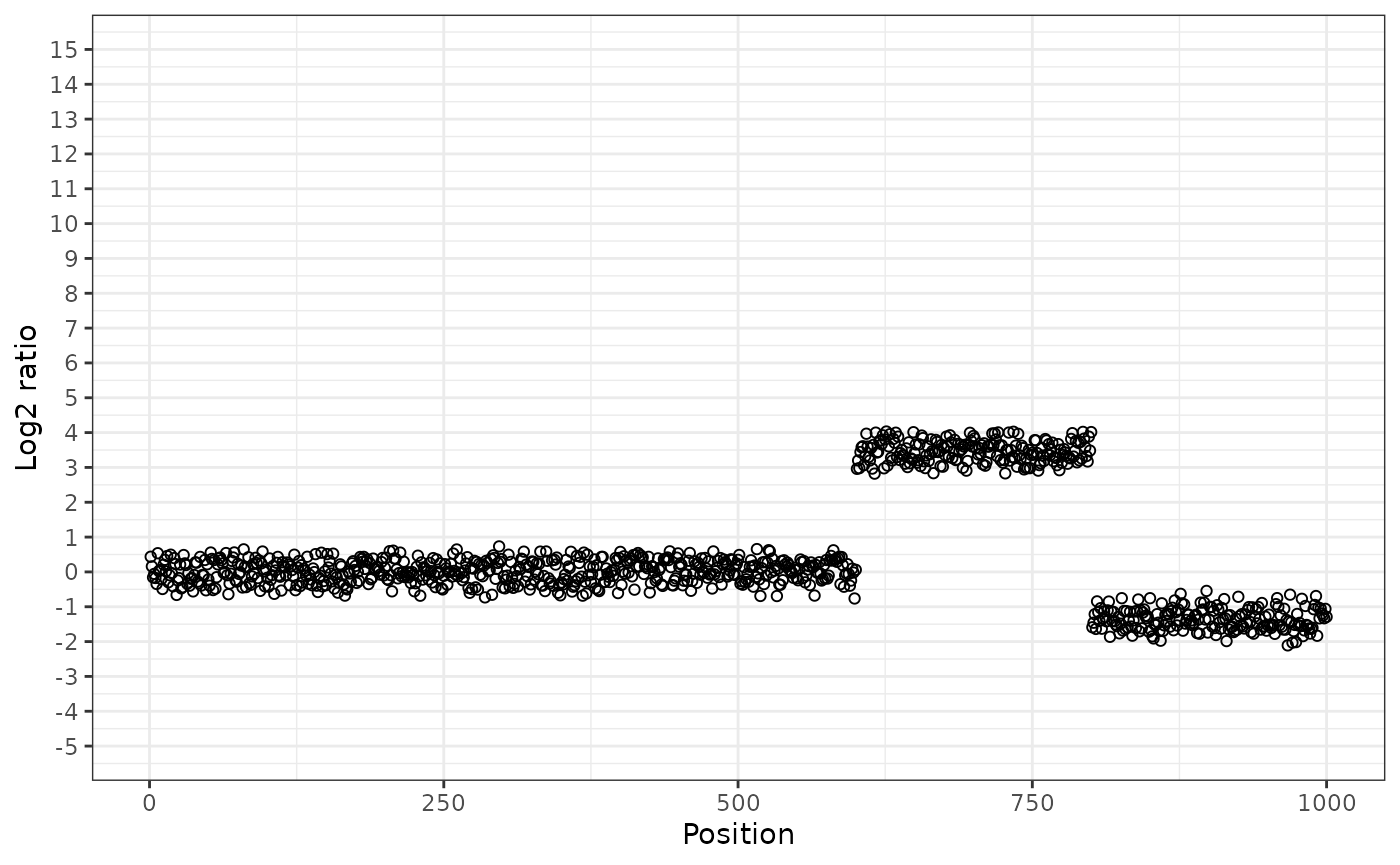
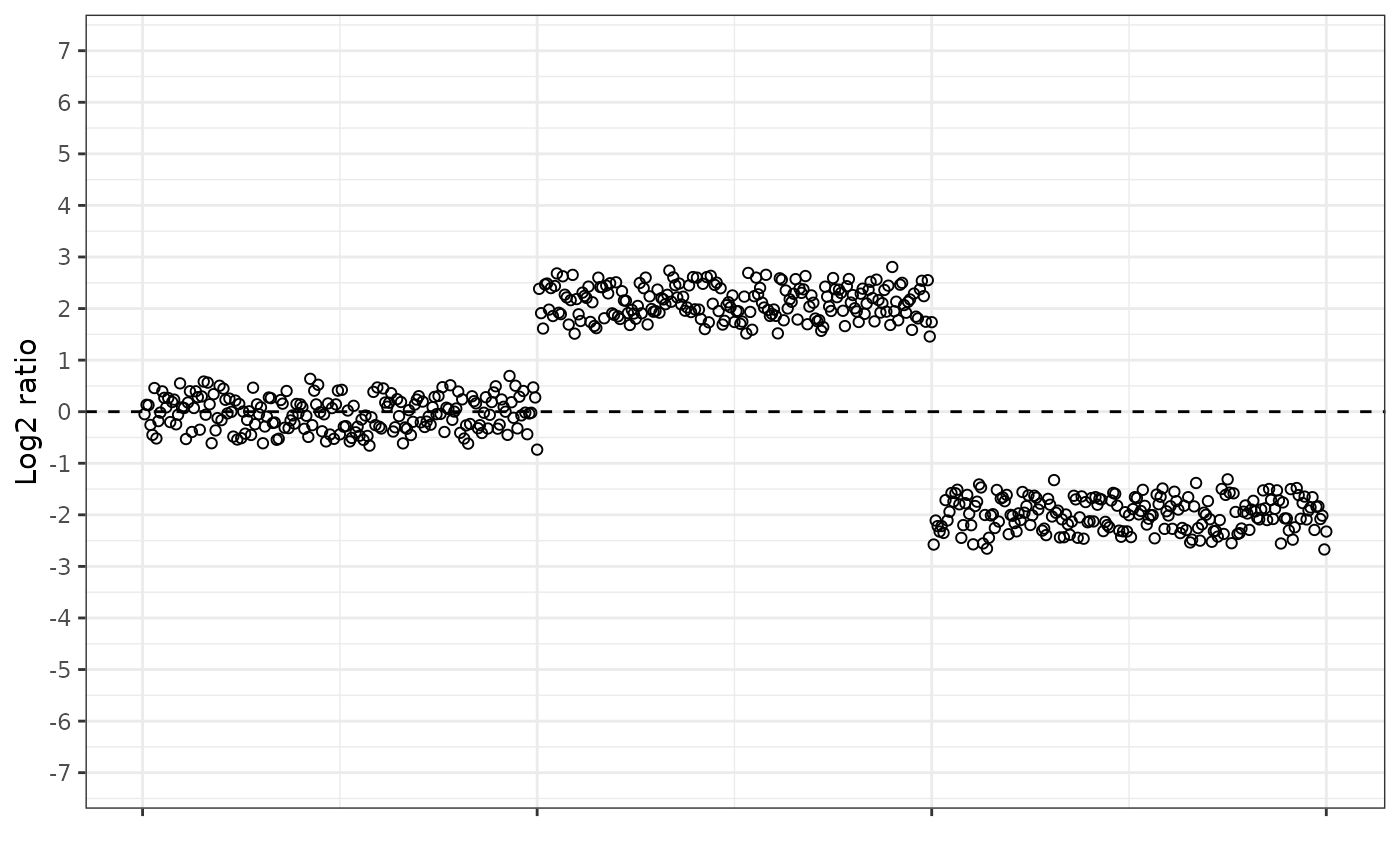
Deploying to gh-pages from @ joe-m-shaw/foldchanger@6fcd348007af15ea4fa84a96eece6bf73f385910 🚀

diff --git a/articles/dosage_calculations.html b/articles/dosage_calculations.html
@@ -166,6 +166,9 @@ the loss equation is used when the observed dosage is lower than
 expected. This results in a “splitting” of the central cluster of normal
 dosage points.</p>
 <p><img src="dosage_calculations_files/figure-html/fccombined-plot-1.png" width="700"></p>
+<p>For ease of comparison, here are all four ways of plotting the data
+next to each other.</p>
+<p><img src="dosage_calculations_files/figure-html/all-plots-1.png" width="700"></p>
 </div>
   </main><aside class="col-md-3"><nav id="toc" aria-label="Table of contents"><h2>On this page</h2>
     </nav></aside>
